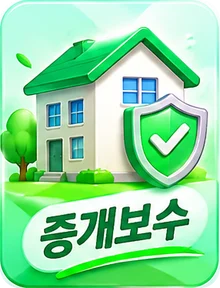
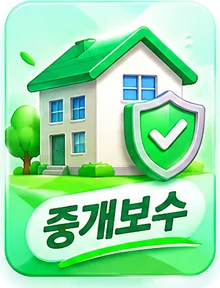
4번 아이콘 글자 '증개보수' → '중개보수' 새 그림으로 교체 (v145)

diff --git a/sw.js b/sw.js
@@ -1,5 +1,5 @@
 // 오프라인 실행용 캐시. index.html 등을 수정하면 VERSION 값을 올려주세요.
-const VERSION = 'dsr-v144';
+const VERSION = 'dsr-v145';
 const FILES = ['./', './index.html', './policy.html', './bank.html', './rules.html', './idscan.html', './manifest.webmanifest', './icon-192.png', './logo-head.png', './icon-512.png', './apple-touch-icon.png', './splash2.jpg', './splash-bank2.jpg', './calc/', './calc/index.html', './calc/loan.html', './calc/prepay.html', './calc/rent.html', './calc/broker.html', './calc/saving.html', './calc/acqtax.html', './calc/salary.html', './calc/area.html', './calc/apply.html', './calc/date.html', './calc/img/all-128.webp', './calc/img/scan.webp', './calc/img/i01.webp', './calc/img/i02.webp', './calc/img/i03.webp', './calc/img/i04.webp', './calc/img/i05.webp', './calc/img/i06.webp', './calc/img/i07.webp', './calc/img/i08.webp', './calc/img/i09.webp', './calc/img/i10.webp'];
 
 self.addEventListener('install', e => {

diff --git a/index.html b/index.html
@@ -1107,7 +1107,7 @@ dialog{border-radius:10px}
 
 <script>
 const $ = s => document.querySelector(s), $$ = s => [...document.querySelectorAll(s)];
-const APP_VERSION = 'v144';   // sw.js 의 VERSION 과 같이 올릴 것
+const APP_VERSION = 'v145';   // sw.js 의 VERSION 과 같이 올릴 것
 document.querySelectorAll('.app-ver').forEach(el => el.textContent = APP_VERSION);
 
 /* ---------- 규제 기본값 (⚙ 규제설정에서 수정 가능) ---------- */
